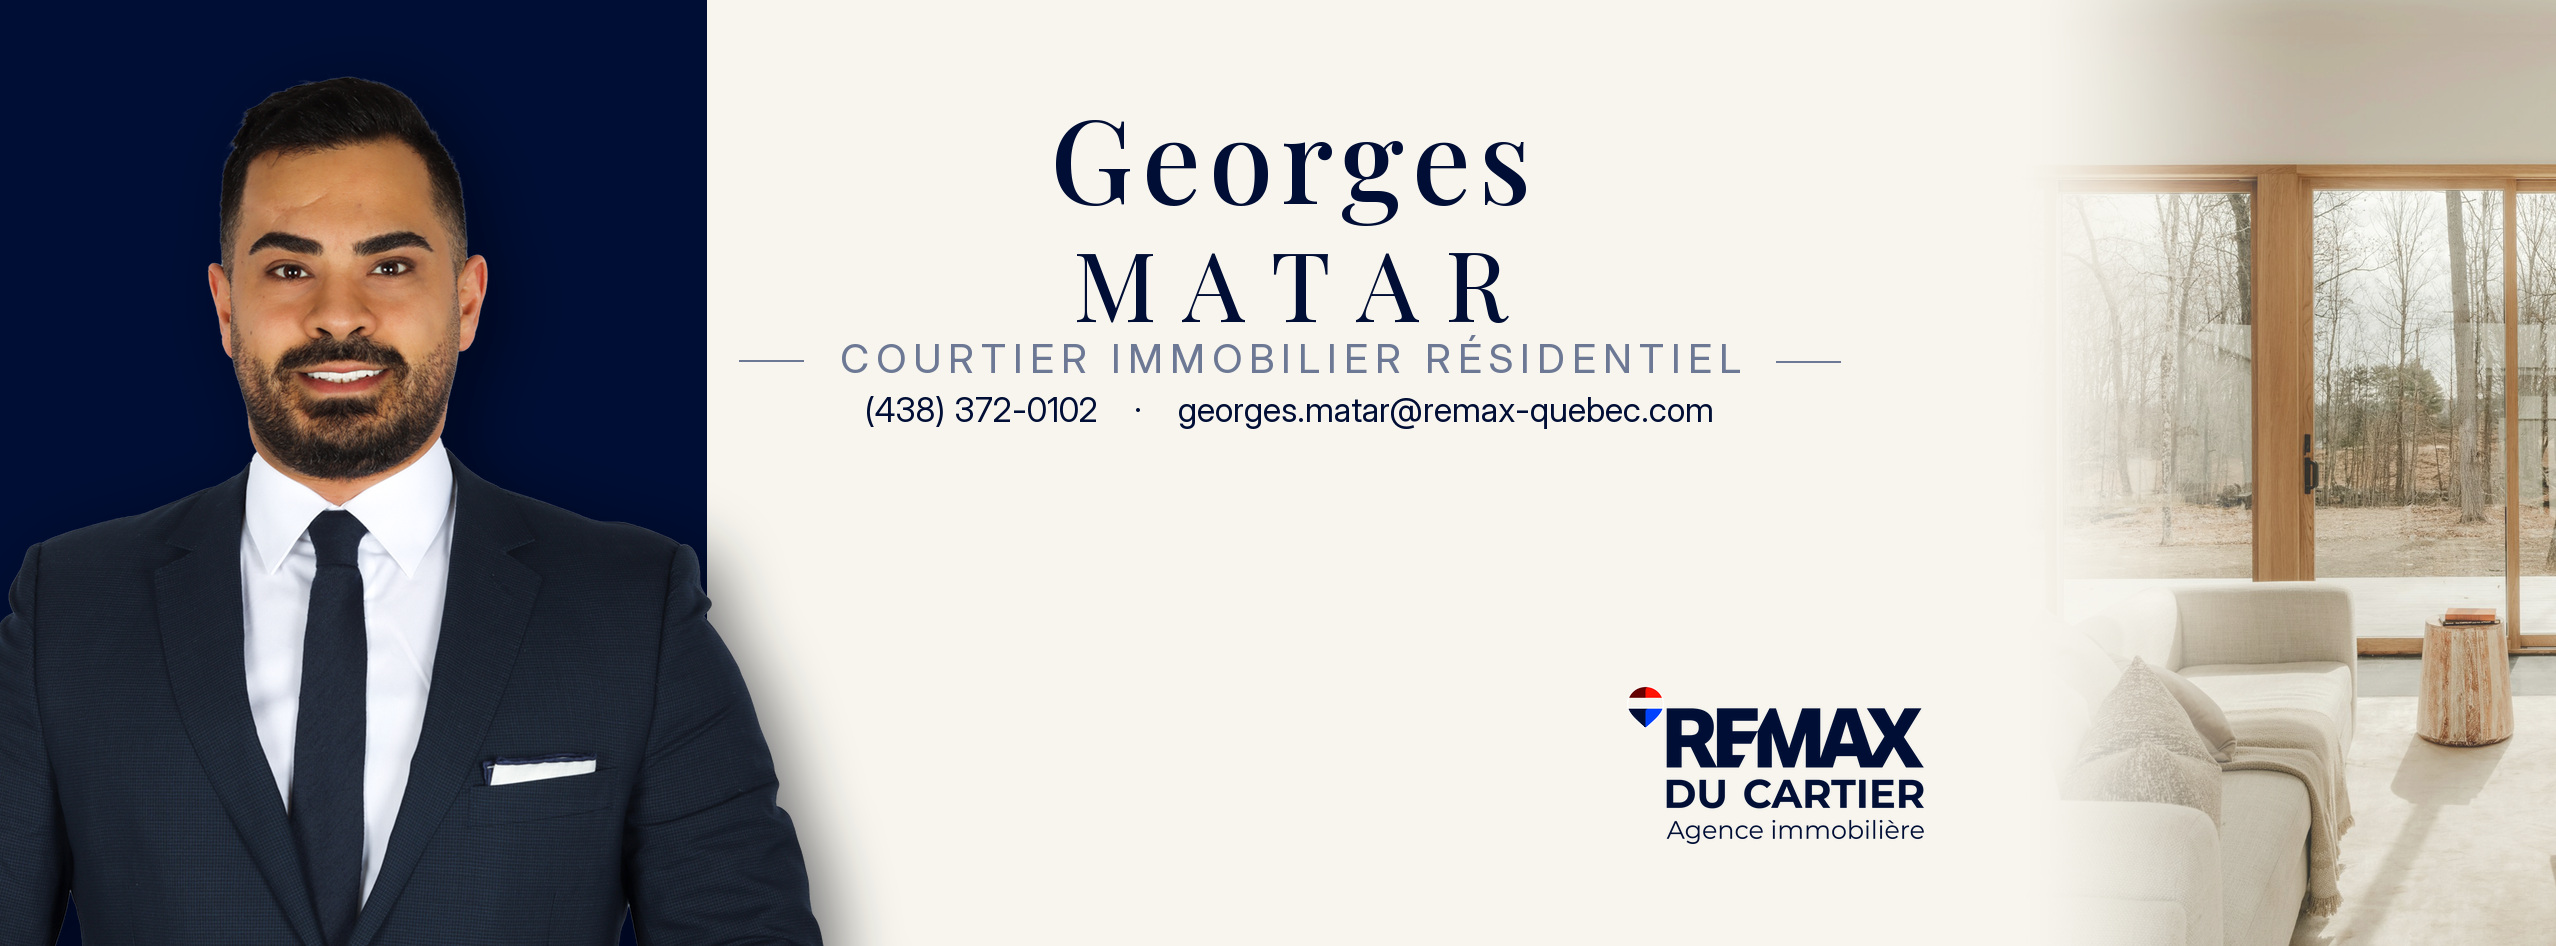
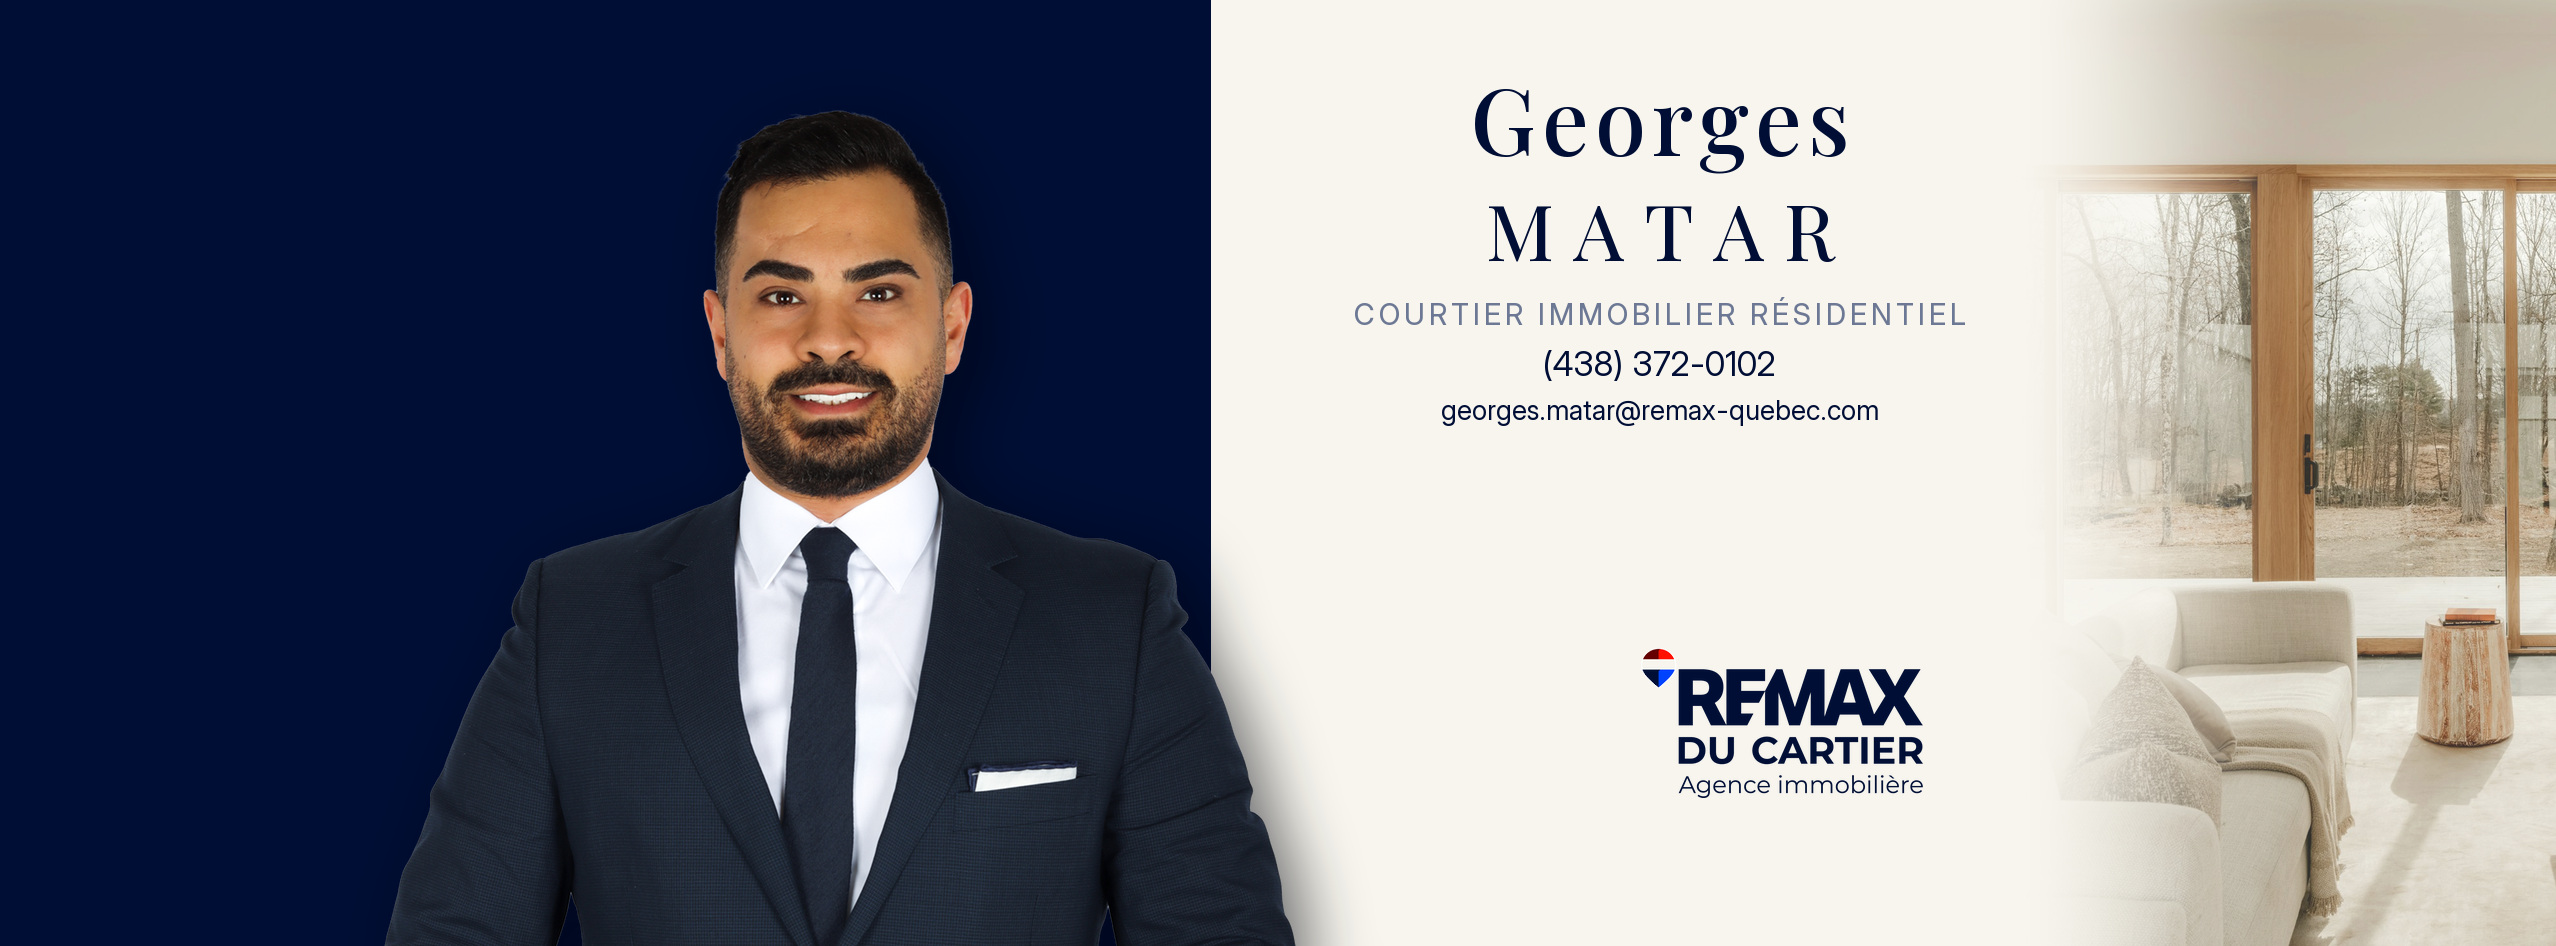
facebook: portrait et texte tiennent tous les deux dans la tranche mobile
Deuxieme capture de l application: la tranche visible est x 567 a 1991
et le disque de la photo de profil a un rayon de 319, centre en
(1277, 768). Le portrait etait a gauche de cette tranche, donc absent
sur telephone.

Composition en deux colonnes a l interieur de la tranche: le visage
cale sur x 840, le texte sur x 1660, le logo a droite du disque. Les
filets du titre sont retires, ils tombaient hors tranche.

verifier() controle maintenant chaque bloc contre la tranche et le
disque a chaque generation, et nomme ceux qui depassent.

diff --git a/facebook/generer-couverture-arche.py b/facebook/generer-couverture-arche.py
@@ -1,34 +1,30 @@
 # -*- coding: utf-8 -*-
-"""Photo de couverture Facebook, bandeau navy et colonne de texte.
+"""Photo de couverture Facebook, portrait et texte dans la zone mobile.
 
 Sortie 2556 x 946 px, soit trois fois le format d affichage Facebook
 (852 x 315). Le triple garde le texte net sur les ecrans Retina.
 
-Composition, de gauche a droite:
-  - bandeau navy a fond perdu, le portrait detoure devant,
-    qui deborde sur le creme
-  - colonne de texte: nom sur deux lignes, titre, coordonnees
-  - photo d interieur a droite, fondue dans le creme par un degrade
-  - logo de l agence en bas a droite
-
-Zones mortes, mesurees sur une capture reelle de l application:
+Zones mortes, mesurees sur deux captures reelles de l application:
 
   Mobile. Facebook met l image a la hauteur de la bande et rogne les
-  cotes: seule la tranche x 555 a 2025 reste visible, 57 pour cent de
-  la largeur. La photo de profil pose un disque de rayon 329 centre en
-  (1287, 791), donc tout le bas du centre disparait. Le texte vit en
-  consequence au dessus de y = 455, et le logo passe a droite du
-  disque, apres x = 1650.
+  cotes: seule la tranche x 567 a 1991 reste visible, 56 pour cent de
+  la largeur. La photo de profil pose un disque de rayon 319 centre en
+  (1277, 768), qui mange tout le bas du centre.
 
   Bureau. La photo de profil se pose en bas a gauche, elle couvre
   environ x 50 a 580 et y > 616, c est a dire le bas du bandeau navy.
 
-La fonction apercu_mobile() redessine ces deux contraintes par dessus
-l image, pour verifier d un coup d oeil apres chaque retouche.
+Toute la composition tient donc dans la tranche mobile, en deux
+colonnes de part et d autre du disque: le portrait a gauche, assez
+grand pour que le visage se lise, le texte a droite, le logo dans
+l angle bas droit. La photo d interieur et le bord gauche du bandeau
+ne sont visibles que sur ordinateur, ils ne portent aucune
+information.
+
+verifier() controle apres coup que chaque bloc tient dans la tranche
+et evite le disque. apercu_mobile() redessine le rognage.
 
 Couleurs: charte RE/MAX DU CARTIER uniquement (voir CHARTE-COULEURS.md).
-Le dore du modele de depart est remplace par du navy dilue, l or ne
-figure pas dans la charte.
 """
 import os
 from PIL import Image, ImageDraw, ImageFont, ImageFilter
@@ -52,11 +48,15 @@ TITRE = "COURTIER IMMOBILIER RÉSIDENTIEL"
 TEL = "(438) 372-0102"
 COURRIEL = "georges.matar@remax-quebec.com"
 
-CX = 1290                                    # axe de la colonne de texte
+MOBILE = (567, 1991)                         # tranche visible sur telephone
+DISQUE = (1277, 768, 319)                    # photo de profil, mobile
+MARGE = 24                                   # garde autour des zones mortes
 
-MOBILE = (555, 2025)                         # tranche visible sur telephone
-DISQUE = (1287, 791, 329)                    # photo de profil, mobile
-PLANCHER = 455                               # rien d essentiel plus bas au centre
+BANDE = 1210                                 # largeur du bandeau navy
+TETE_X = 840                                 # axe du visage
+CX = 1660                                    # axe de la colonne de texte
+
+boites = []                                  # tout ce qui doit rester visible
 
 
 # ---------------------------------------------------------------- polices
@@ -77,29 +77,30 @@ def largeur(draw, s, font, track=0):
     return w + track * (len(s) - 1) if track else draw.textlength(s, font=font)
 
 
-def centre(draw, y, s, font, fill, track=0, cx=CX, anchor="mt"):
+def centre(draw, y, s, font, fill, track=0, cx=CX, anchor="mt", nom=""):
     """Ecrit la chaine centree sur cx, interlettrage optionnel.
 
     y est lu selon anchor: mt pour le haut de la boite, ms pour la
-    ligne de base.
+    ligne de base. La boite tracee est ajoutee a la liste de controle.
     """
+    lg = largeur(draw, s, font, track)
+    mt, ds = font.getmetrics()
+    haut = y if anchor[1] == "t" else y - mt
+    boites.append((nom or s[:18], cx - lg / 2, haut, cx + lg / 2, haut + mt + ds))
     if not track:
         draw.text((cx, y), s, font=font, fill=fill, anchor=anchor)
         return
     # lettre a lettre, toujours cale sur la ligne de base: un ancrage
     # par le haut ferait descendre les capitales accentuees, le É
     # debordant du jambage superieur
-    base = y + font.getmetrics()[0] if anchor[1] == "t" else y
-    x = cx - largeur(draw, s, font, track) / 2
+    base = y + mt if anchor[1] == "t" else y
+    x = cx - lg / 2
     for c in s:
         draw.text((x, base), c, font=font, fill=fill, anchor="ls")
         x += draw.textlength(c, font=font) + track
 
 
 # ---------------------------------------------------------------- bandeau
-BANDE = 706                                  # largeur du bandeau navy
-
-
 def bandeau(canvas):
     lay = Image.new("RGBA", (W, H), (0, 0, 0, 0))
     ImageDraw.Draw(lay).rectangle([0, 0, BANDE, H], fill=NAVY + (255,))
@@ -108,22 +109,32 @@ def bandeau(canvas):
 
 # ---------------------------------------------------------------- portrait
 def portrait(canvas):
+    """Portrait detoure, cale pour que le visage tombe dans la tranche
+    mobile, a gauche du disque de la photo de profil."""
     im = Image.open(os.path.join(ASSETS, "georges-matar-3.png")).convert("RGBA")
     im = im.crop(im.getchannel("A").getbbox())
-    h = 874
-    w = int(im.width * h / im.height)
+    w = 912
+    h = int(im.height * w / im.width)
     im = im.resize((w, h), Image.LANCZOS)
-    x0, y0 = 350 - w // 2, H - h
+    x0, y0 = TETE_X - w // 2, H - h
 
     sh = Image.new("RGBA", (W, H), (0, 0, 0, 0))
     sh.paste((0, 4, 18, 150), (x0 + 18, y0 + 16), im)
     canvas.alpha_composite(sh.filter(ImageFilter.GaussianBlur(30)))
     canvas.alpha_composite(im, (x0, y0))
 
+    # le visage occupe le quart haut du detourage, c est lui qui doit
+    # rester visible sur telephone
+    boites.append(("visage", TETE_X - w * 0.19, y0 + h * 0.03,
+                   TETE_X + w * 0.19, y0 + h * 0.30))
+
 
 # ---------------------------------------------------------------- interieur
 def interieur(canvas):
-    """Photo d interieur a droite, fondue dans le creme vers la gauche."""
+    """Photo d interieur a droite, fondue dans le creme vers la gauche.
+
+    Hors tranche mobile: decor pour l affichage sur ordinateur.
+    """
     x0 = 2010
     pw, ph = W - x0, H
     im = Image.open(os.path.join(SOURCES, "interieur-salon.jpg")).convert("RGB")
@@ -132,11 +143,9 @@ def interieur(canvas):
     gx = int((im.width - pw) * 0.35)
     im = im.crop((gx, (im.height - ph) // 2, gx + pw, (im.height - ph) // 2 + ph))
 
-    # voile creme, pour que la photo reste en retrait du texte
     im = im.convert("RGBA")
     im.alpha_composite(Image.new("RGBA", (pw, ph), CREME + (46,)))
 
-    # degrade d entree: invisible a gauche, pleine opacite a droite
     fondu = 300
     m = Image.new("L", (pw, 1), 255)
     mp = m.load()
@@ -162,43 +171,57 @@ def logo(canvas, hauteur, xy):
             r, g, b, a = px[i, j]
             if a and max(r, g, b) < 110 and max(r, g, b) - min(r, g, b) < 42:
                 px[i, j] = NAVY + (a,)
-    canvas.alpha_composite(im, (int(xy[0] - w / 2), int(xy[1])))
+    x, y = int(xy[0] - w / 2), int(xy[1])
+    canvas.alpha_composite(im, (x, y))
+    boites.append(("logo", x, y, x + w, y + hauteur))
 
 
 # ---------------------------------------------------------------- montage
 def couverture():
+    del boites[:]
     c = Image.new("RGBA", (W, H), CREME + (255,))
     interieur(c)
     bandeau(c)
     portrait(c)
     d = ImageDraw.Draw(c)
 
-    centre(d, 78, NOM, playfair(116, 500), NAVY + (255,), track=8)
-    centre(d, 218, PRENOM_NOM, playfair(96, 450), NAVY + (255,), track=26)
+    centre(d, 56, NOM, playfair(92, 500), NAVY + (255,), track=6)
+    centre(d, 176, PRENOM_NOM, playfair(78, 450), NAVY + (255,), track=20)
 
-    # filets de part et d autre du titre
-    ft = inter(40, 450)
-    y = 334
-    lt = largeur(d, TITRE, ft, 7)
-    centre(d, y, TITRE, ft, NAVY_DOUX + (255,), track=7)
-    for s in (-1, 1):
-        x = CX + s * (lt / 2 + 36)
-        d.line([(x, y + 27), (x + s * 64, y + 27)], fill=NAVY_DOUX + (150,),
-               width=2)
+    # pas de filets de part et d autre: la ligne de titre occupe deja
+    # toute la largeur disponible dans la tranche mobile
+    centre(d, 296, TITRE, inter(29, 450), NAVY_DOUX + (255,), track=4)
 
-    # telephone et courriel sur une seule ligne, pour tenir au dessus
-    # du disque de la photo de profil
-    fc = inter(34, 400)
-    ligne = TEL + "    ·    " + COURRIEL
-    centre(d, 396, ligne, fc, NAVY + (245,))
+    centre(d, 350, TEL, inter(34, 400), NAVY + (255,))
+    centre(d, 400, COURRIEL, inter(27, 400), NAVY + (235,))
 
-    # logo a droite du disque, seul endroit du bas visible sur telephone
-    logo(c, 158, (1776, 686))
+    logo(c, 150, (1782, 648))
     return c
 
 
+# ---------------------------------------------------------------- controles
+def verifier():
+    """Chaque bloc doit tenir dans la tranche mobile et eviter le disque."""
+    x0, x1 = MOBILE
+    cx, cy, r = DISQUE
+    ok = True
+    for nom, a, b, e, f in boites:
+        if a < x0 + MARGE or e > x1 - MARGE:
+            print(f"   HORS TRANCHE  {nom}: x {a:.0f} a {e:.0f}")
+            ok = False
+        # point de la boite le plus proche du centre du disque
+        px = min(max(cx, a), e)
+        py = min(max(cy, b), f)
+        if ((px - cx) ** 2 + (py - cy) ** 2) ** 0.5 < r + MARGE:
+            print(f"   SOUS LE DISQUE  {nom}: x {a:.0f} a {e:.0f}, "
+                  f"y {b:.0f} a {f:.0f}")
+            ok = False
+    print("   zones mobiles: OK" if ok else "   zones mobiles: a corriger")
+    return ok
+
+
 def apercu_mobile(im, chemin):
-    """Rejoue le rognage de Facebook sur telephone, zones mortes en rouge."""
+    """Rejoue le rognage de Facebook sur telephone, disque en rouge."""
     x0, x1 = MOBILE
     vue = im.convert("RGBA").crop((x0, 0, x1, H))
     cx, cy, r = DISQUE
@@ -218,4 +241,5 @@ if __name__ == "__main__":
     apercu_mobile(im, os.path.join(HERE, "apercu-mobile.jpg"))
     for p in (png, jpg):
         print("  ", os.path.basename(p), f"{os.path.getsize(p)/1024:.0f} Ko")
+    verifier()
     print("OK", W, "x", H)
